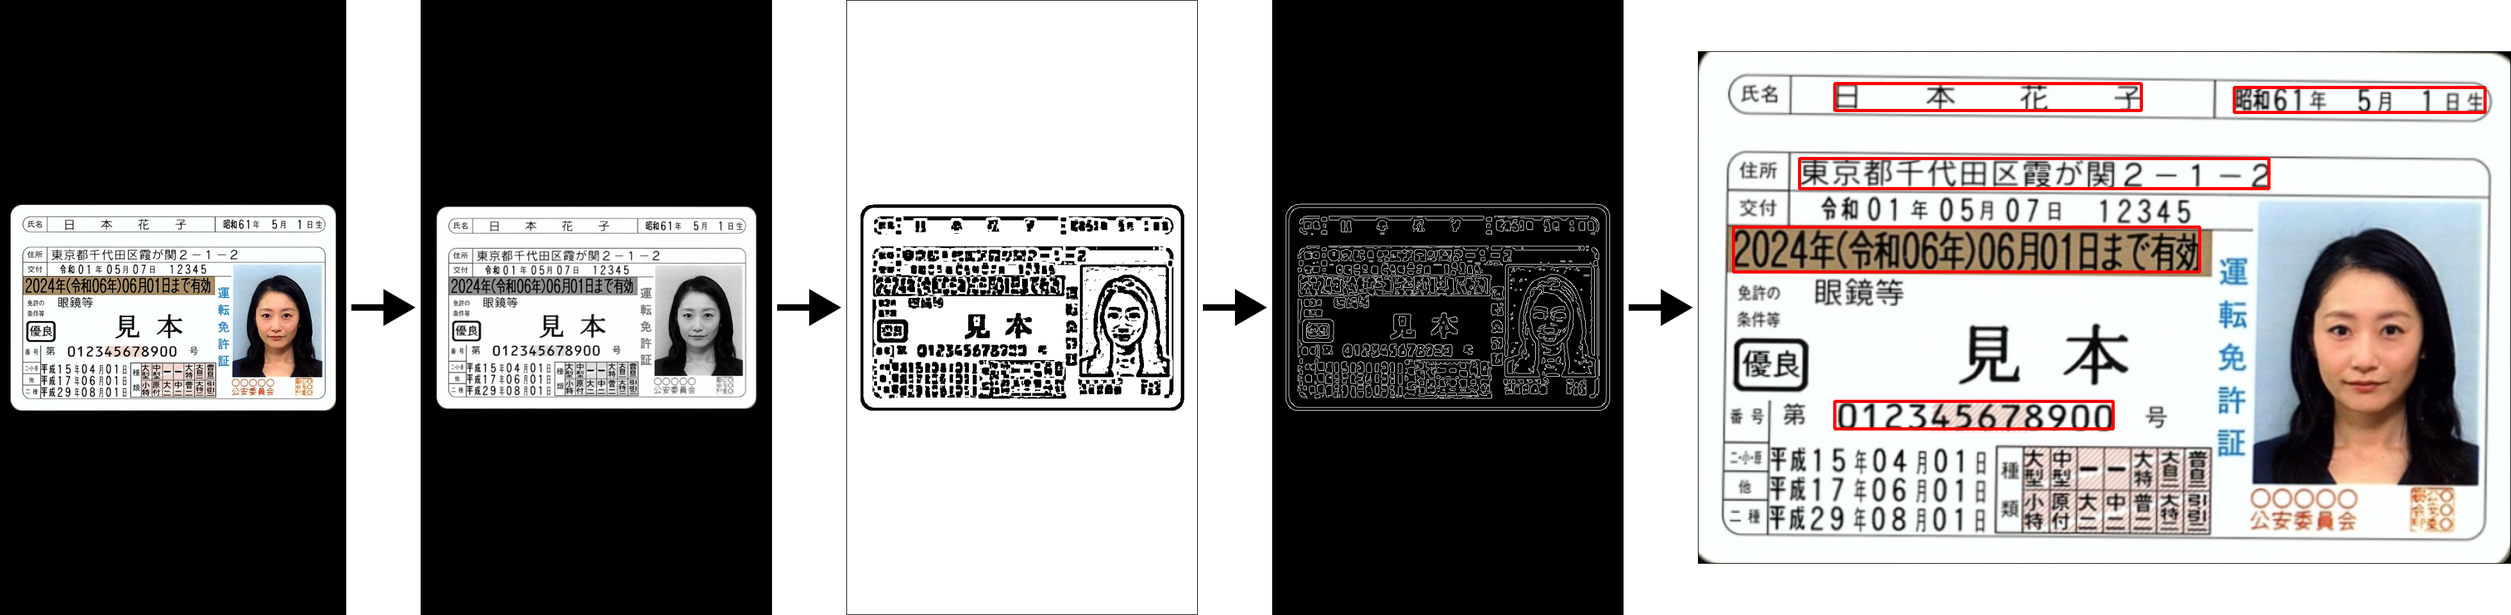
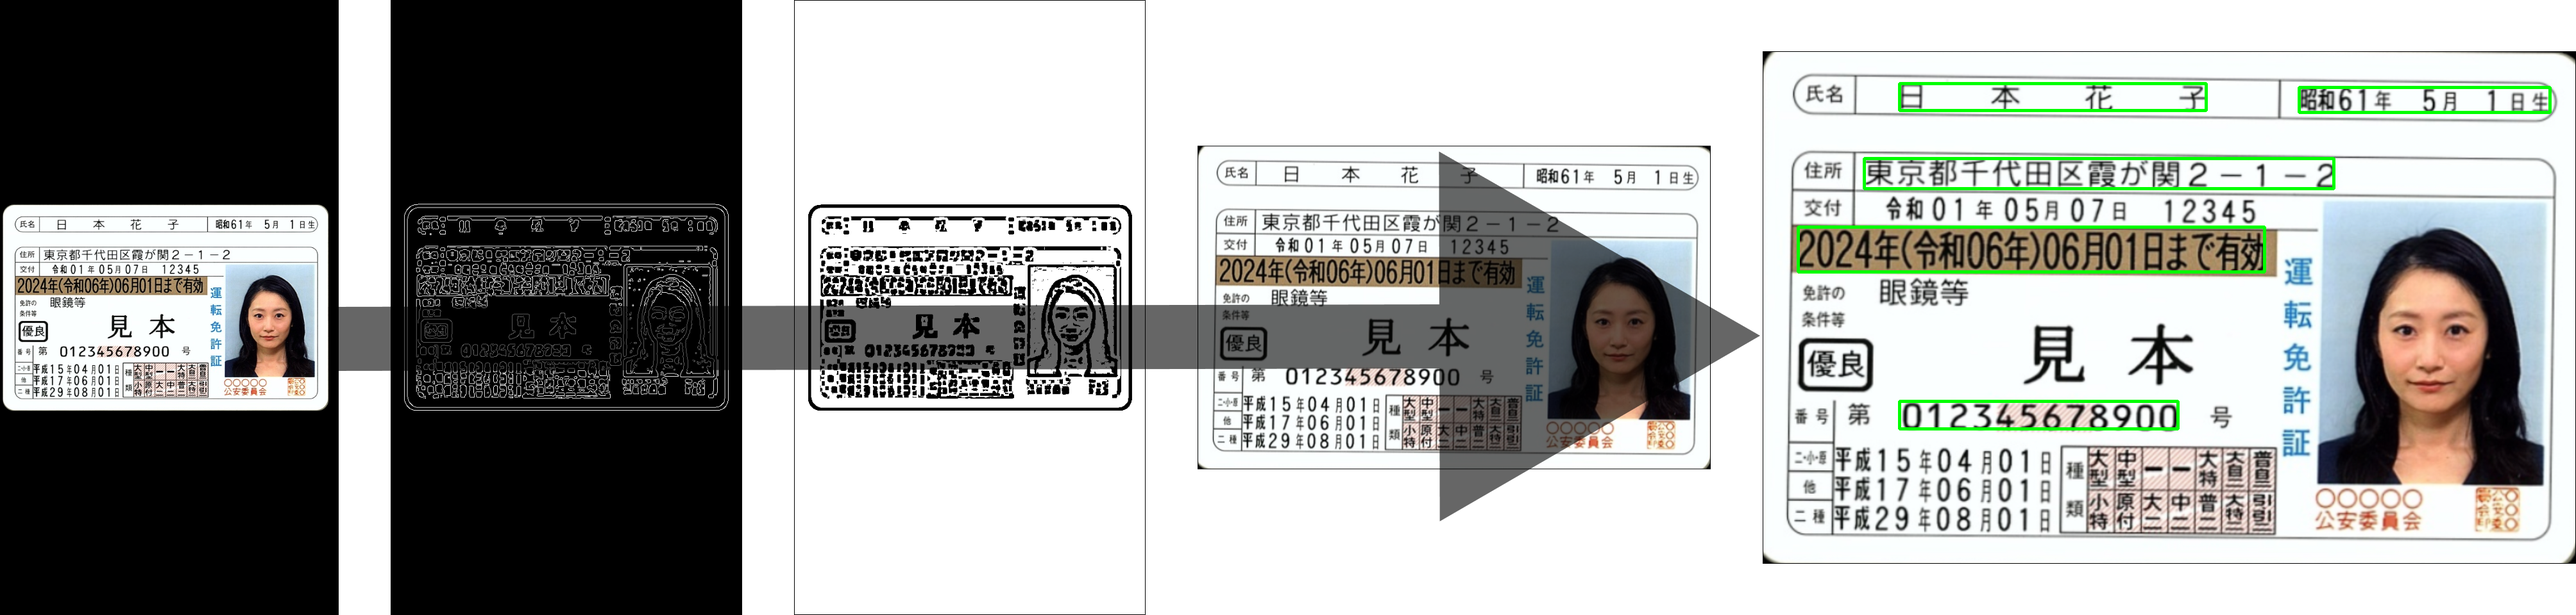
Changed the arguments of the document detection and text scan functions from dict types to simple primitive types.

diff --git a/src/core/scanText.py b/src/core/scanText.py
@@ -10,32 +10,34 @@ from dotmap import DotMap
 import utils
 from pathlib import Path
 
-def scanText(options = dict()):
+def scanText(input, type, debug = False):
   """Scan document.
   Args:
-    options.input: Image path or Data URL.
-    options.type: Document type.
-                'driverslicense': Driver's license card
-                'mynumber': My number card
-    options.debug: Display debug image on display.
+    input: Image path or DataURL.
+    type: Document type.
+          'driverslicense': Driver's license card
+          'mynumber': My number card
+    debug: Display debug image on display.
   Returns:
     Return the text detected from the document.
   """
-  # Initialize options.
-  options = dict(input = None, type = None, debug = False) | options
-  options = DotMap(options)
+  # Validate parameters
+  if (not utils.isDataUrl(input) and
+      not os.path.exists(input) and
+      not os.path.isfile(input)
+  ):
+    raise ValueError('Input is incorrect. Input can be an image path, or DataURL')
+  if type != 'driverslicense' and type != 'mynumber':
+    raise ValueError('Incorrect type. Type can be "driverslicense" or "mynumber"')
 
-  # Validate options.
-  _validOptions(options)
-
-  # load an image.
-  if utils.isDataUrl(options.input):
-    img = utils.toNdarray(options.input)
+  # Load the image.
+  if utils.isDataUrl(input):
+    img = utils.toNdarray(input)
   else:
-    img = cv2.imread(options.input)
+    img = cv2.imread(input)
 
   # Detect text from image.
-  texts = _detectText(img, utils.getMime(options.input))
+  texts = _detectText(img, utils.getMime(input))
   if not texts:
     # Could not find the text in the image.
     utils.logging.debug('Text not found in image')
@@ -45,45 +47,19 @@ def scanText(options = dict()):
   syms = _findRectangleSymbol(texts, img)
 
   # Get annotations.
-  annots = _loadAnnotationXML(options.type)
+  annots = _loadAnnotationXML(type)
 
   # # Show annotation rectangle for debugging.
-  if options.debug:
+  if debug:
     _showAnnotationRectangle(img, annots)
 
   # Find text that inscribes matches the field template rectangle.
   matches = _matching(annots, syms)
 
   # Show detected text rectangles for debugging.
-  if options.debug:
+  if debug:
     _showDetectedTextRectangle(img, matches)
   return matches
-
-def _validOptions(options): 
-  """Validate options.
-  Args:
-    options.input: Image path or Data URL.
-    options.type: Document type.
-                'driverslicense': Driver's license card
-                'mynumber': My number card
-  Raises:
-    ValueError: If there are invalid options
-  """
-  # input option required.
-  if not options.input:
-    raise ValueError('input option required')
-
-  # Input options only allow image path or data URL.
-  if not utils.isDataUrl(options.input) and not os.path.exists(options.input) and os.path.isfile(options.input):
-    raise ValueError(f'{options.input} Image file not found')
-
-  # Document type required.
-  if not options.type:
-    raise ValueError('type option required')
-  
-  # Check if the document type is valid.
-  if options.type != 'driverslicense' and options.type != 'mynumber':
-    raise ValueError('Invalid type. Use \'driverslicense\' or \'mynumber\'')
 
 def _detectText(img, mime):
   """Detect text from image.
@@ -261,7 +237,7 @@ def _showAnnotationRectangle(img, annots):
     cv2.rectangle(tmpImg,
       [round(pt1[0] * width), round(pt1[1] * height)],
       [round(pt2[0] * width), round(pt2[1] * height)],
-      (0,0,255), 3)
+      (0,255,0), 3)
   utils.showImage('Annotation rectangle', tmpImg)
 
 def _showDetectedTextRectangle(img, matches):
@@ -278,5 +254,5 @@ def _showDetectedTextRectangle(img, matches):
     cv2.rectangle(tmpImg,
       [round(match.rect.xmin * width), round(match.rect.ymin * height)],
       [round(match.rect.xmax * width), round(match.rect.ymax * height)],
-      (0,0,255), 3)
+      (0,255,0), 3)
   utils.showImage('Detected text rectangle', tmpImg)

diff --git a/src/core/detectDocument.py b/src/core/detectDocument.py
@@ -4,56 +4,48 @@ import os
 from dotmap import DotMap
 import utils
 
-def detectDocument(options):
+def detectDocument(input, output = None, debug = False):
   """Detect document from image.
   Args:
-    options.input: Image path or Data URL.
-    options.output: Output image path of the found document.
-    options.debug: Display debug image on display.
+    input: Image path or DataURL.
+    output: Output image path of the found document.
+    debug: Display debug image on display.
   Returns:
     Return detected document image.
   """
-  # Initialize options.
-  options = DotMap(dict(
-    input = None,
-    output = None,
-    debug = False
-  ) | options.toDict())
+  # Validate parameters
+  if (utils.isDataUrl(input) and
+      not os.path.exists(input) and
+      not os.path.isfile(input)
+  ):
+    raise ValueError('Input is incorrect. Input can be an image path, or DataURL')
 
-  # input option required.
-  if not options.input:
-    raise ValueError('input option required')
-
-  # Input options only allow image path or data URL.]
-  if not utils.isDataUrl(options.input) and not os.path.exists(options.input) and os.path.isfile(options.input):
-    raise ValueError(f'{options.input} Image file not found')
-
-  # load an image.
-  if utils.isDataUrl(options.input):
-    origImg = utils.toNdarray(options.input)
+  # Load the image.
+  if utils.isDataUrl(input):
+    img = utils.toNdarray(input)
   else:
-    origImg = cv2.imread(options.input)
-  if options.debug:
-    utils.showImage('Original', origImg)
+    img = cv2.imread(input)
+  if debug:
+    utils.showImage('Original', img)
 
   # Resize the image.
-  resizeImg, resizeRatio = utils.resizeImage(origImg, height=600)
+  resizeImg, resizeRatio = utils.resizeImage(img, height=600)
 
   # Detect document contour points.
-  contour = _detectDocumentContourPoints(resizeImg, options.debug)
+  contour = _detectDocumentContourPoints(resizeImg, debug)
   if contour is None:
     return None
 
   # Draw a contour.
-  if options.debug:
+  if debug:
     tmpImg = resizeImg.copy()
     cv2.drawContours(tmpImg, [contour], -1, (0,255,0), 2)
     utils.showImage('Drawing contour', tmpImg)
 
   # Apply the four point tranform to obtain a "birds eye view" of the image.
-  warpImg = utils.fourPointTransform(contour/resizeRatio, origImg)
+  warpImg = utils.fourPointTransform(contour/resizeRatio, img)
   warpImg, _ = utils.resizeImage(warpImg, height=800)
-  if options.debug:
+  if debug:
     utils.showImage('Warped', warpImg)
 
   # Resize in the specified ratio.
@@ -69,12 +61,12 @@ def detectDocument(options):
   utils.showImage('Warped', warpImg)
 
   # Output the resulting image.
-  if options.output:
-    cv2.imwrite(options.output, warpImg)
-    utils.logging.debug(f'Output {options.output}')
+  if output:
+    cv2.imwrite(output, warpImg)
+    utils.logging.debug(f'Output {output}')
 
   # Returns the DataURL of the image.
-  dataUrl, _ = utils.toDataUrl(warpImg, utils.getMime(options.input))
+  dataUrl, _ = utils.toDataUrl(warpImg, utils.getMime(input))
   return dataUrl
   
 def _detectDocumentContourPoints(img, debug=False):

diff --git a/src/scan.py b/src/scan.py
@@ -3,13 +3,13 @@ def main():
   options = _getCommandOptions()
 
   # Detect document from image.
-  dataUrl = core.detectDocument(options)
+  dataUrl = core.detectDocument(options.input, options.output, options.debug)
   if not dataUrl:
     utils.logging.debug('The document could not be detected from the image')
     exit()
 
   # OCR.
-  matches = core.scanText(dict(input = dataUrl, type = options['type'], debug = options['debug']))
+  matches = core.scanText(dataUrl, options.type, options.debug)
   if not matches:
     utils.logging.debug('The text could not be detected')
     exit()
@@ -32,6 +32,7 @@ if __name__ == '__main__':
   from dotmap import DotMap
   import core
   import utils
+  import cv2
 
   # OCR for ID cards.
   main()

diff --git a/src/utils/isNdarray.py b/src/utils/isNdarray.py
@@ -1,0 +1,10 @@
+import numpy as np
+
+def isNdarray(arr):
+  """Check if it is a Ndarray.
+  Args:
+    arr: Value to be checked.
+  Returns:
+    Returns Returns True if the value is Ndarray, False otherwise.
+  """
+  return isinstance(arr, np.ndarray)

diff --git a/src/utils/__init__.py b/src/utils/__init__.py
@@ -14,3 +14,4 @@ from .toNdarray import *
 from .writeJson import *
 from .contourToRect import *
 from .fourPointTransform import *
+from .isNdarray import *

diff --git a/README.md b/README.md
@@ -4,6 +4,12 @@ Detect documents from images.
 Scan Japanese driver's license card:  
 ![driver's-license.png](screencaps/driver's-license.png)
 
+If it is rotating in the roll direction.
+![driver's-license2.png](screencaps/driver's-license2.png)
+
+If it is rotating in the pitch direction:  
+![driver's-license3.png](screencaps/driver's-license3.png)
+
 Scan Japanese My Number Card:  
 ![my-number.png](screencaps/my-number.png)
 

diff --git a/CHANGELOG.md b/CHANGELOG.md
@@ -1,6 +1,12 @@
 # Changelog
 All notable changes to this project will be documented in this file.
 
+## [1.0.1] - 2022-08-15
+### Fixed
+- Changed the arguments of the document detection and text scan functions from dict types to simple primitive types.
+
 ## [1.0.0] - 2022-01-25
 ### Fixed
 - First release.
+
+[1.0.1]: https://github.com/takuya-motoshima/document-scanner/compare/v1.0.0...v1.0.1
